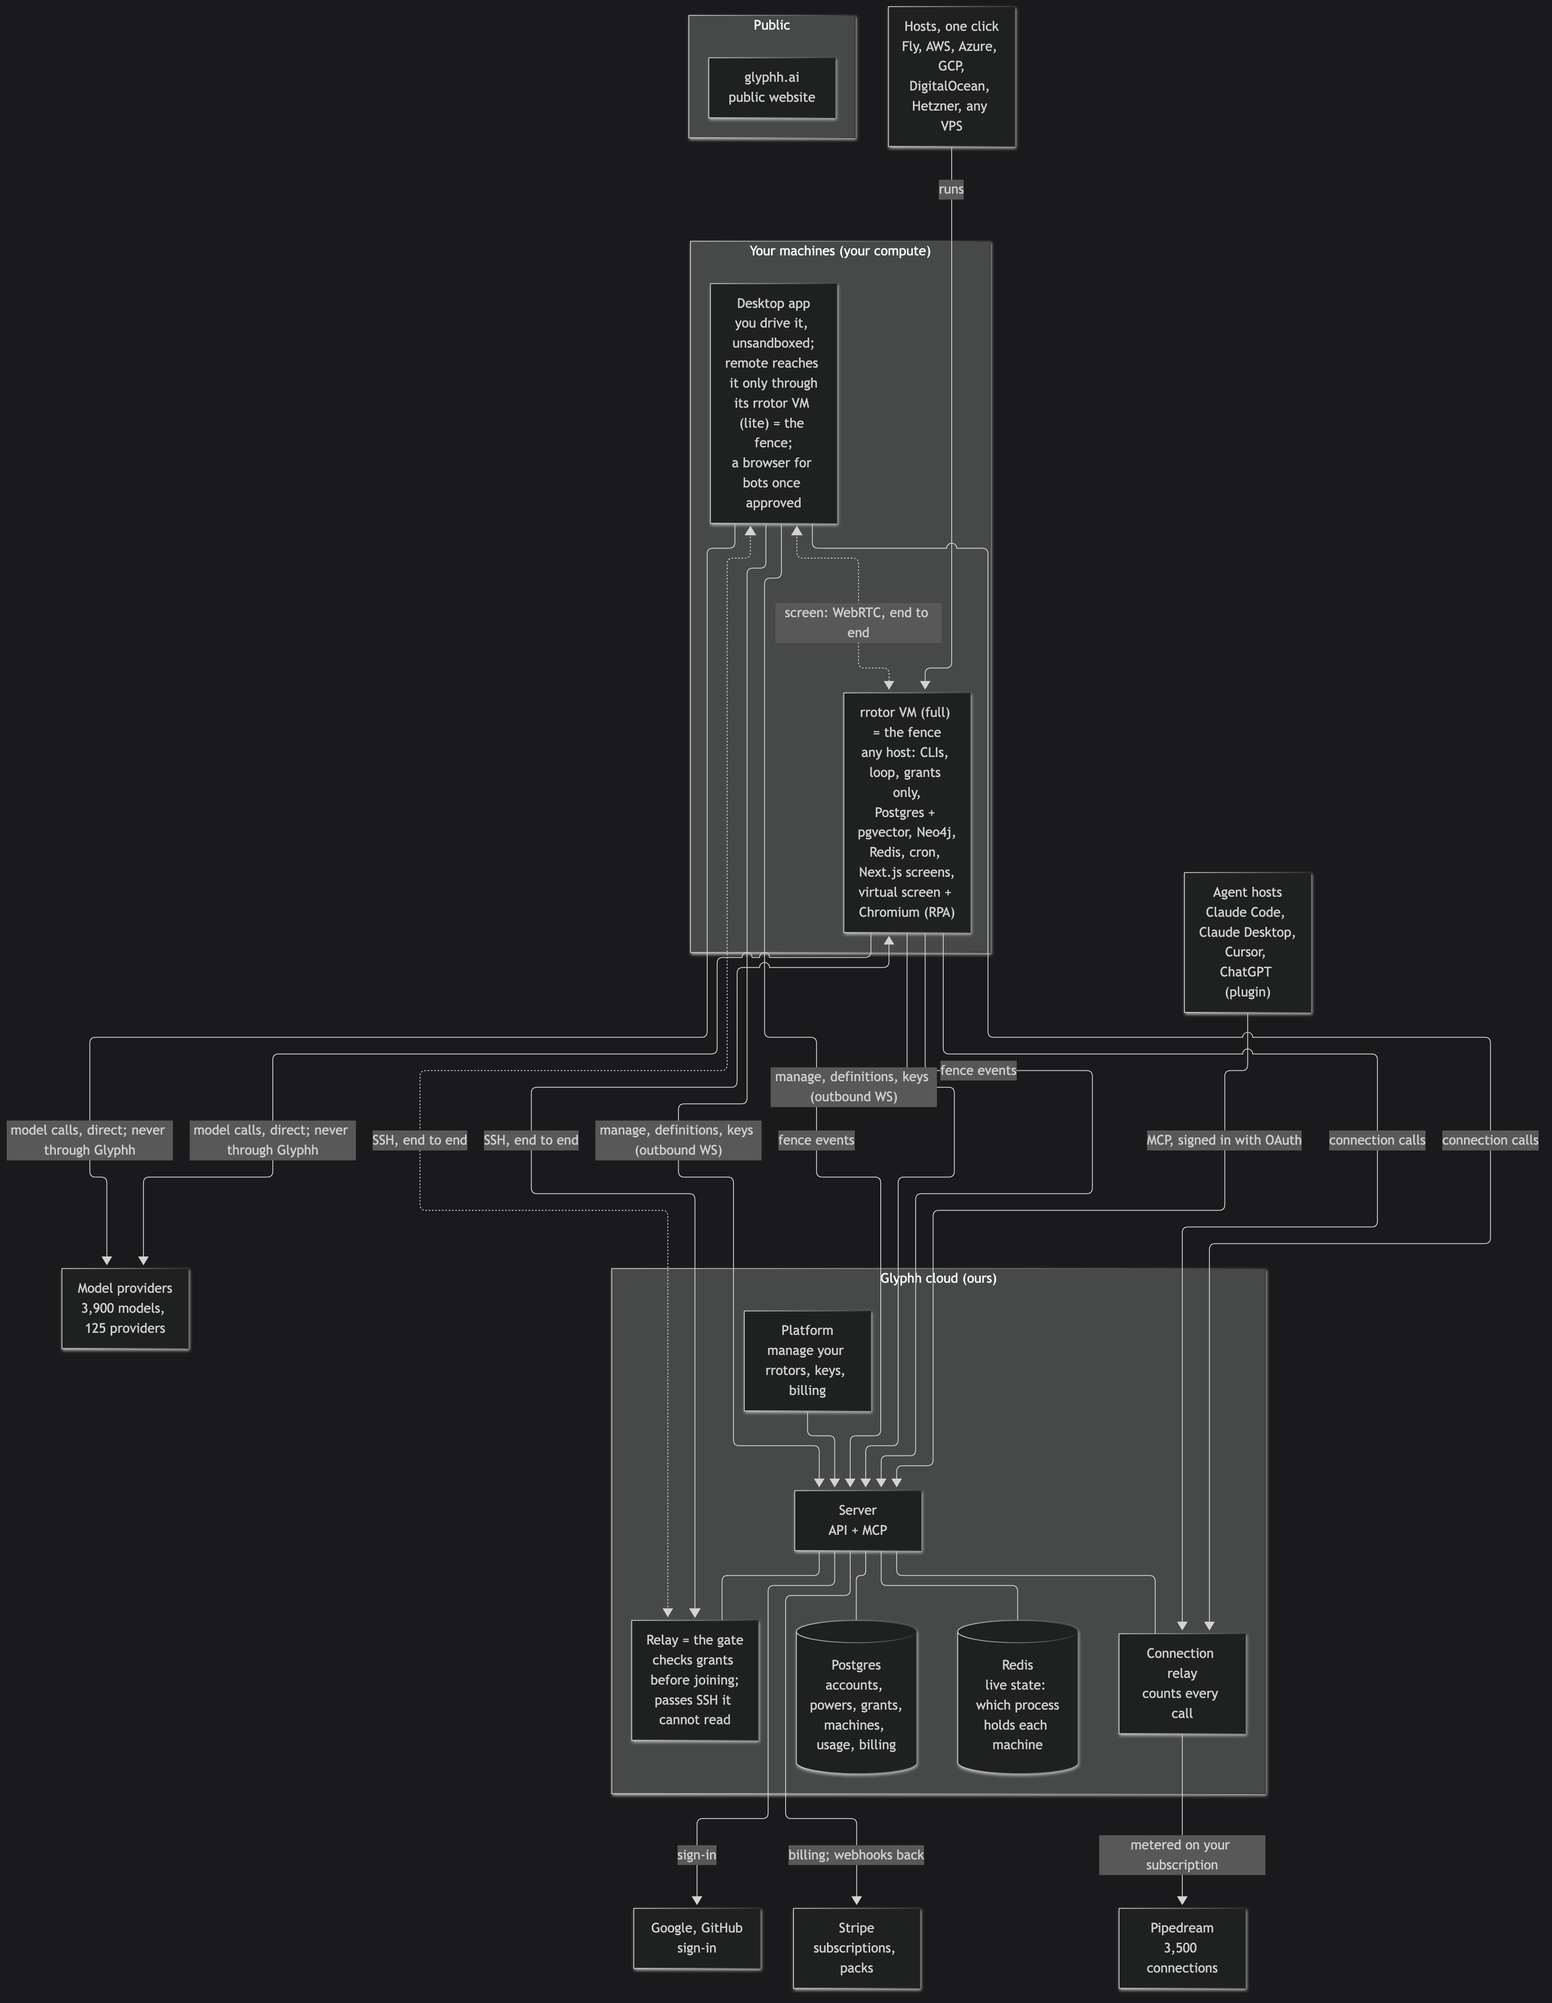
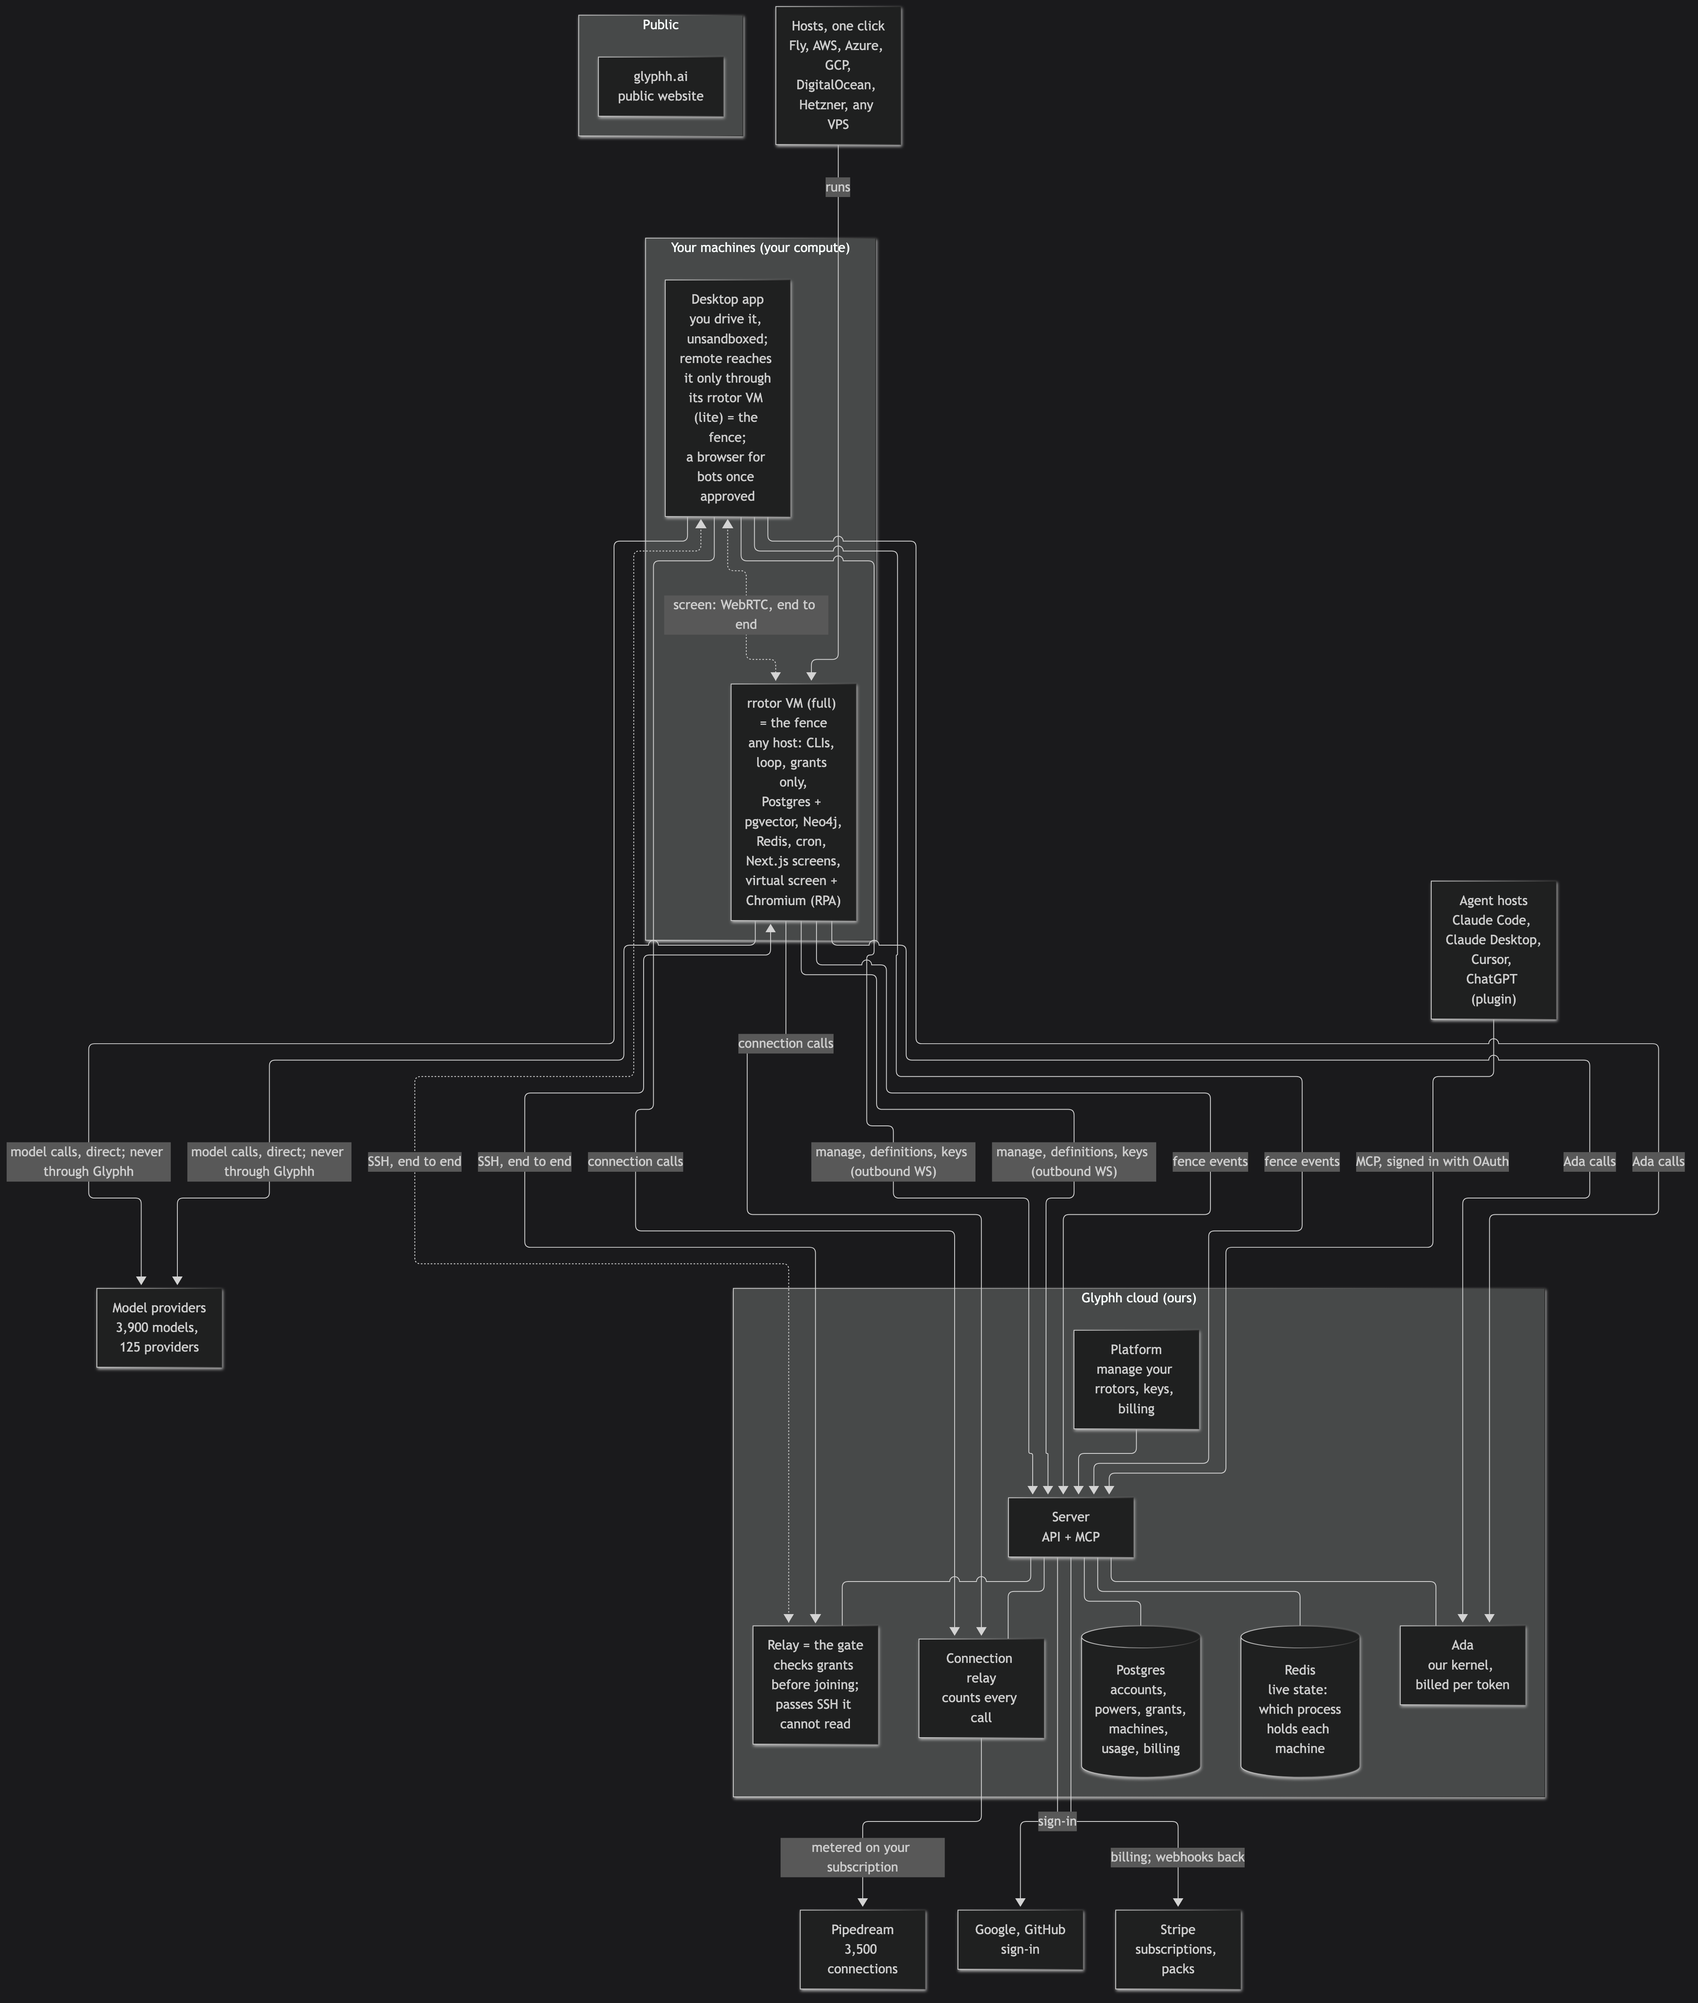
Tasks, the heart of rrotor: Jev a model on the member's key, Ada our kernel billed per token, dependencies, Discover; usage carries Ada calls

diff --git a/server/docs/data-model.md b/server/docs/data-model.md
@@ -141,7 +141,7 @@ erDiagram
         uuid id PK
         uuid org_id FK
         uuid user_id FK "whose it is: every power is one user's, for now"
-        text kind "model, connection, folder, browser, skill, task, plugin, loop"
+        text kind "model, connection, folder, browser, ada, skill, task, plugin, loop"
         text name "unique for its owner"
         timestamptz disabled_at "set while a limit leaves it out: it stops working and can only be deleted; cleared when allowed again"
         text disabled_reason "which limit left it out"
@@ -332,17 +332,20 @@ erDiagram
     usage_events {
         uuid id PK
         uuid org_id FK
-        uuid user_id FK "whose connection it was"
-        uuid power_id FK "the connection power"
-        text service "what the call reached: gmail, slack, ...; kept as called"
-        text tool "the tool called: gmail-send-email, ..."
+        uuid user_id FK "whose call it was"
+        text kind "connection or ada"
+        uuid power_id FK "the connection power, or the Ada model power"
+        text service "a connection's service (gmail, slack, ...); for Ada, the model's id; kept as called"
+        text tool "the tool or Ada operation: gmail-send-email, query, record, ..."
         uuid super_power_id FK "the super power that called it"
         uuid machine_id FK "the machine it ran on"
         uuid run_id FK "the run it was part of"
         text status "ok, error, refused"
         text error "the reason, for error and refused"
-        int duration_ms "the time Pipedream took, timed by the server"
-        int credits "max(1, ceil(seconds / 30)) for a call made; 0 when refused"
+        int duration_ms "the time the call took, timed by the server"
+        int input_tokens "Ada: the arguments as JSON, counted by the server"
+        int output_tokens "Ada: the result, counted by the server"
+        int credits "connection: max(1, ceil(seconds / 30)); Ada: its tokens at the Ada price; 0 when refused"
         int request_bytes
         int response_bytes
         timestamptz started_at
@@ -576,6 +579,7 @@ Every power is a row in `powers` (who owns it, its kind and name), and one row i
 - **A model** is a provider, the provider's model id and the API key (an optional base URL for providers that need one). rrotor calls the provider directly with that key: Glyphh never sits in the call, never sees its rates or prices, and never counts its tokens. What a model costs is between the person and their provider. A customer who wants limits or access rules puts their own AI gateway in front, through the base URL.
 - **A connection** is a user's own account at Pipedream: the service it connects to (Gmail, Slack, ...) and the account id. Pipedream calls a service an app; Glyphh says service, because an app is something else here. Glyphh stores no sign-in for it: Pipedream holds the account and its tokens, under the Glyphh user's id as Pipedream's external user id. Linking one: the server asks Pipedream for a connect token for that user, and Pipedream's own page does the sign-in. Using one: the loop reaches Pipedream's MCP server (`remote.mcp.pipedream.net/v3`) with the Pipedream project, environment, service (`x-pd-app-slug`) and the user's id as headers, and a short-lived Pipedream access token the server mints for the run (Glyphh's Pipedream client credentials never leave the server). Only Glyphh's connections are used: a super power's loop gets exactly its connections, nothing of the loop's own.
 - **A folder** is a path on one machine (`machine_id`): the same path on two machines is two folders, and a folder grant says read or write.
+- **An Ada model** is a member's own, like every power: the model's id on Glyphh's Ada service (`am_...`). Its kernel and records stay on Glyphh's servers; a super power is granted it, and a task calls it through the server, billed per token. Shared through Discover like any power.
 - **A browser** is a browser profile on one rrotor (a full one, or a desktop whose member approved the browser): its cookies and signed-in sessions live there and never leave that machine or reach the server. It is granted like a folder, so one super power's signed-in sites are never another's.
 - **Skills, tasks and plugins** are bundles of files in object storage (`bundle_key`); whether each save keeps a version is still open.
 - **A secret** (a key, a sign-in) is encrypted at rest, never returned after it is saved, and handed only to the member's own runtime when a super power runs.
@@ -642,7 +646,7 @@ What Pipedream charges Glyphh (Connect, Startup plan): $99 a month billed annual
 
 ## Usage
 
-Every usage event is logged in one place: the server's connection relay. A connection call is the only thing Glyphh pays for, and every one goes through the server (rrotor → connector → server → Pipedream), so the server sees each call whole: who, through which connection, from which super power, on which machine, how long, and what it cost. Nothing is reported by the runtime about itself, so a modified rrotor cannot under-report.
+Every usage event is logged in one place: the server, which every billed call passes through. Two kinds are billed: a connection call (rrotor → connector → server → Pipedream), a cost Glyphh pays, and an Ada call (rrotor → server → Ada, our own kernel), which costs Glyphh only its compute. Every one goes through the server, so the server sees each call whole: who, through which connection, from which super power, on which machine, how long, and what it cost. Nothing is reported by the runtime about itself, so a modified rrotor cannot under-report.
 
 One call, as the relay handles it:
 
@@ -653,7 +657,8 @@ One call, as the relay handles it:
 The check runs before the cost is known, so calls already in flight when the balance reaches 0 finish and are counted: the balance can dip below 0 by at most those calls, and the next call is refused. It never turns into a bill.
 
 - **usage_events** is append only: never updated, never deleted by a request. It holds what was called and how it went, **never what went through it**: no arguments, no results, no message bodies. Those are the member's own data, and they stay between the runtime and Pipedream.
-- **Model calls are not usage.** They go straight to the provider on the member's key, and Glyphh never sees them.
+- **Model calls are not usage.** They go straight to the provider on the member's key, and Glyphh never sees them. Jev is one of them: a TypeSafe model the member adds with their own key, never on Glyphh's key, never through the server, never charged.
+- **An Ada call is priced on its tokens:** input is its arguments as JSON, output its result, both counted by the server with one tokenizer; the cost is the larger of the tokens at the Ada price and a floor per call. The old server's prices are the start: Ada $2 per million tokens in and $10 out with a $0.0005 floor; a published Ada model a cent per million each way. How that price is stated in credits is still open.
 - **Operational logs are separate:** request logs and traces go to OpenTelemetry, tagged by org; they are not billing and do not decide a charge.
 - **Size:** the table is partitioned by month on `created_at`, indexed by org and time, and by org, user and time, so every page reads one org's range.
 

diff --git a/server/docs/architecture.md b/server/docs/architecture.md
@@ -13,11 +13,13 @@ flowchart TB
         Live[("Redis<br/>live state: which process<br/>holds each machine")]
         Relay["Relay = the gate<br/>checks grants before joining;<br/>passes SSH it cannot read"]
         ConnRelay["Connection relay<br/>counts every call"]
+        Ada["Ada<br/>our kernel, billed per token"]
         Platform --> Server
         Server --- DB
         Server --- Live
         Server --- Relay
         Server --- ConnRelay
+        Server --- Ada
     end
 
     subgraph Yours["Your machines (your compute)"]
@@ -42,6 +44,8 @@ flowchart TB
     Remote -- "model calls, direct; never through Glyphh" --> Providers
     Desktop -- "connection calls" --> ConnRelay
     Remote -- "connection calls" --> ConnRelay
+    Desktop -- "Ada calls" --> Ada
+    Remote -- "Ada calls" --> Ada
     ConnRelay -- "metered on your subscription" --> Pipedream
     Agents -- "MCP, signed in with OAuth" --> Server
     Server -- "sign-in" --> SignIn
@@ -77,6 +81,8 @@ A single-deployment, multi-tenant cloud SaaS, headless first: every capability i
 
 - **rrotor → CLI or model → provider:** the thinking goes straight to the provider, on the member's own subscription or key. Glyphh never sees it.
 - **rrotor → connector → server:** every connection call goes through the server, which relays it to Pipedream and counts it, because each one is a cost Glyphh pays.
+- **rrotor → Ada → server:** every Ada call goes to Glyphh's own Ada kernel, which never leaves Glyphh's servers, and is billed per token.
+- **Jev is a model, on the first path:** the member adds TypeSafe's Jev with their own key, and rrotor calls TypeSafe directly. It is never on Glyphh's key, never through the server, and never charged.
 
 ### Models
 
@@ -96,6 +102,21 @@ Connections are the moat: about 3,500 services (Gmail, Slack, Salesforce, ...) t
 - **Who is driving decides what can be asked.** In a run the member drives, a tool set to `ask` asks them. In a run nobody is watching (autonomous: on a clock, or started by an agent), `ask` means refused, so it uses only tools that are allowed, by the member or by the super power's own override.
 
 Glyphh has the super power editor: the skills and tools to create a super power, grant and take back its powers, machines and super powers, and test-run it. Only Glyphh edits super powers; a super power under it cannot change its own grants or another's. Every editor step is a server operation, so it is an API call and an MCP tool too: a member edits a super power by talking to Glyphh, or in the app's editor. Ported from the old app's super power and power builders.
+
+### Tasks, the heart of rrotor
+
+A task is a program rrotor runs, by hand, from a super power or on a clock, and it reaches the world only through its context:
+
+- `ctx.decide`: Jev, a model the member added with their own key, called directly;
+- `ctx.ada`: one of the member's Ada models (query, record, veto, ...), through the server, billed per token;
+- `ctx.agents.<slot>`: the model filling each of its slots;
+- `ctx.connections.<service>`: its connections, through the server, counted;
+- `ctx.rpa`: the browser, on a machine that has one;
+- `ctx.checkpoint` and `ctx.log`: resume where it stopped, and its run's log.
+
+**Dependencies.** A power declares what it needs: a task that needs Gmail and Slack, a chat model for its writing step, Jev and an Ada model says so. Adding it to a super power grants all of it at once; whatever the member does not have yet is asked for right there (connect Gmail, add a key, pick an Ada model), and it cannot run until everything is in place, naming what is missing. Jev and Ada are dependencies like any model.
+
+**Discover.** Glyphh and orgs publish powers (skills, tasks, Ada models, ...) and super powers to a catalog, each a bundle with its type and its dependencies; an org's listings are visible to its own members. Installing one copies it into the member's own powers, linked to the listing and its version so updates can be offered, and brings its dependencies with it as above. The tables for requirements and listings are drawn when this is built.
 
 ### What a super power can be
 

diff --git a/server/docs/status.md b/server/docs/status.md
@@ -23,7 +23,7 @@ On the [data model](data-model.md), in the order they were drawn:
 - **People and machines:** `invites`, `machines` (with their edition, SSH key, fingerprint and shell switch), `machine_sign_ins`, `fence_events` (what rrotor reports when a run reaches past its fence), `api_keys`; folders are on a machine, and folder grants are read or write.
 - **Signing in and Stripe:** `sign_in_identities` (Google and GitHub by the provider's own id), `oauth_clients` and `oauth_codes` (the plugin's sign-in), `key_links` (the platform's one-time key links), `stripe_events` (each webhook handled once).
 
-On the [architecture](architecture.md): desktop browsers for super powers, fetched only with the member's approval, Redis for live state (which process holds each machine, heartbeats, messages between processes), rrotor as a Linux VM (the app you drive unsandboxed, remote control only through rrotor by grants), the platform's usage and billing pages, adding a model in the app, what rrotor carries (Postgres with pgvector, a Next.js server, the loop), and machine to machine over SSH through the relay.
+On the [architecture](architecture.md): tasks with Jev (a model on the member's key) and Ada (our kernel, billed per token), dependencies and Discover, desktop browsers for super powers, fetched only with the member's approval, Redis for live state (which process holds each machine, heartbeats, messages between processes), rrotor as a Linux VM (the app you drive unsandboxed, remote control only through rrotor by grants), the platform's usage and billing pages, adding a model in the app, what rrotor carries (Postgres with pgvector, a Next.js server, the loop), and machine to machine over SSH through the relay.
 
 ## Open
 
@@ -31,6 +31,9 @@ Decisions still to make. Where a proposal is written, it is a proposal, not a de
 
 - **Conversations:** not drawn. Proposal: the server keeps each conversation's record (title, super power, machine, run, status, times), rrotor keeps the messages, and the app and web open them over SSH through the relay.
 - **Where the org admin's pages live:** members, teams, and the allowed models and connections, in the app or on the platform.
+- **Ada in credits:** how the Ada price per token is stated in credits.
+- **Super powers in Discover:** whether a super power becomes one more power type (`super_powers` folds into `powers`) or keeps its own table and is listed the same way.
+- **Requirements and listings:** the tables for power dependencies and the Discover catalog, drawn when built.
 - **App settings** (workspaces, tabs, layout, appearance): not drawn; on hold.
 - **The rrotor definition:** what a super power's definition holds (its workflows, pipelines and screens), how one super power's data is kept apart from another's in rrotor's Postgres, and how its screens reach the app and the web from a remote machine.
 - **Power bundles:** whether saving a skill or task keeps each version, and how edits made in a machine's folder get back to the server.
